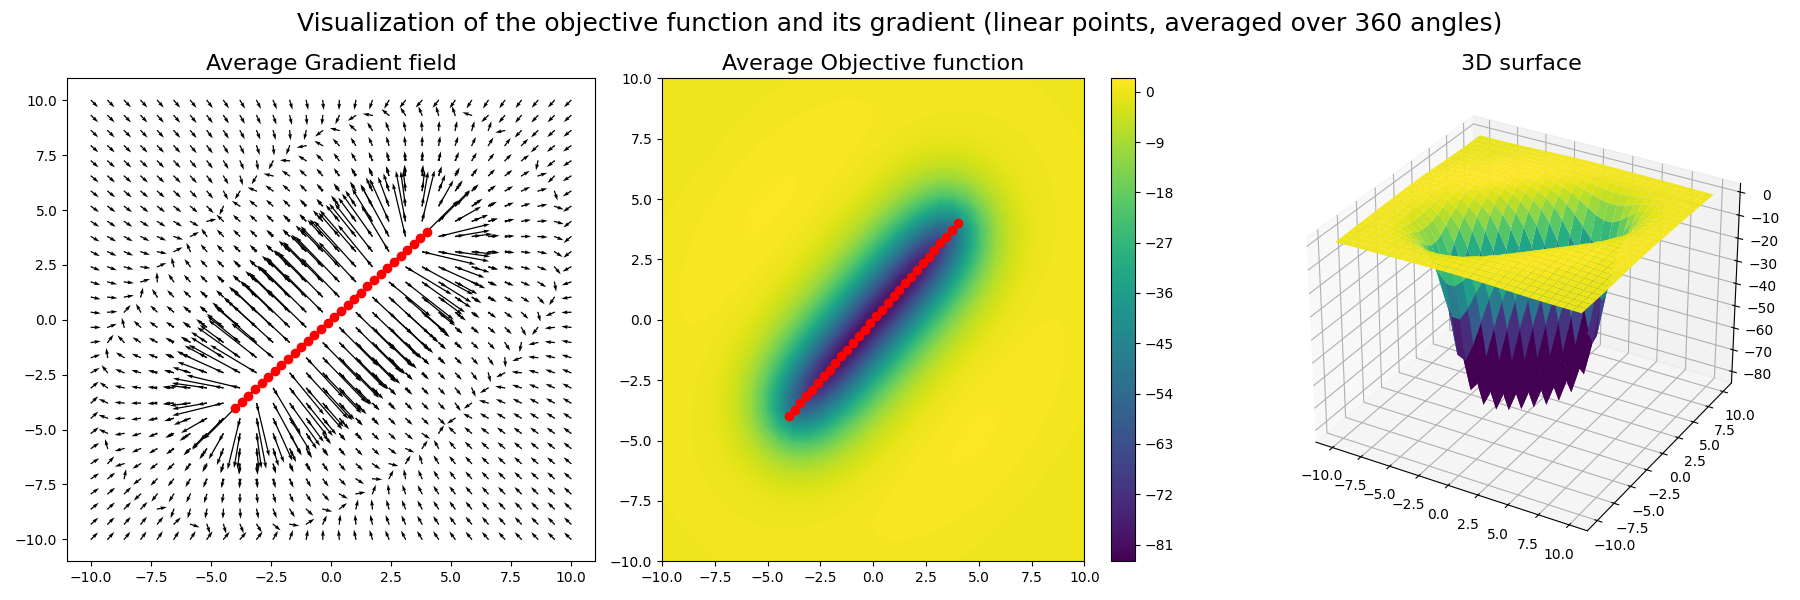
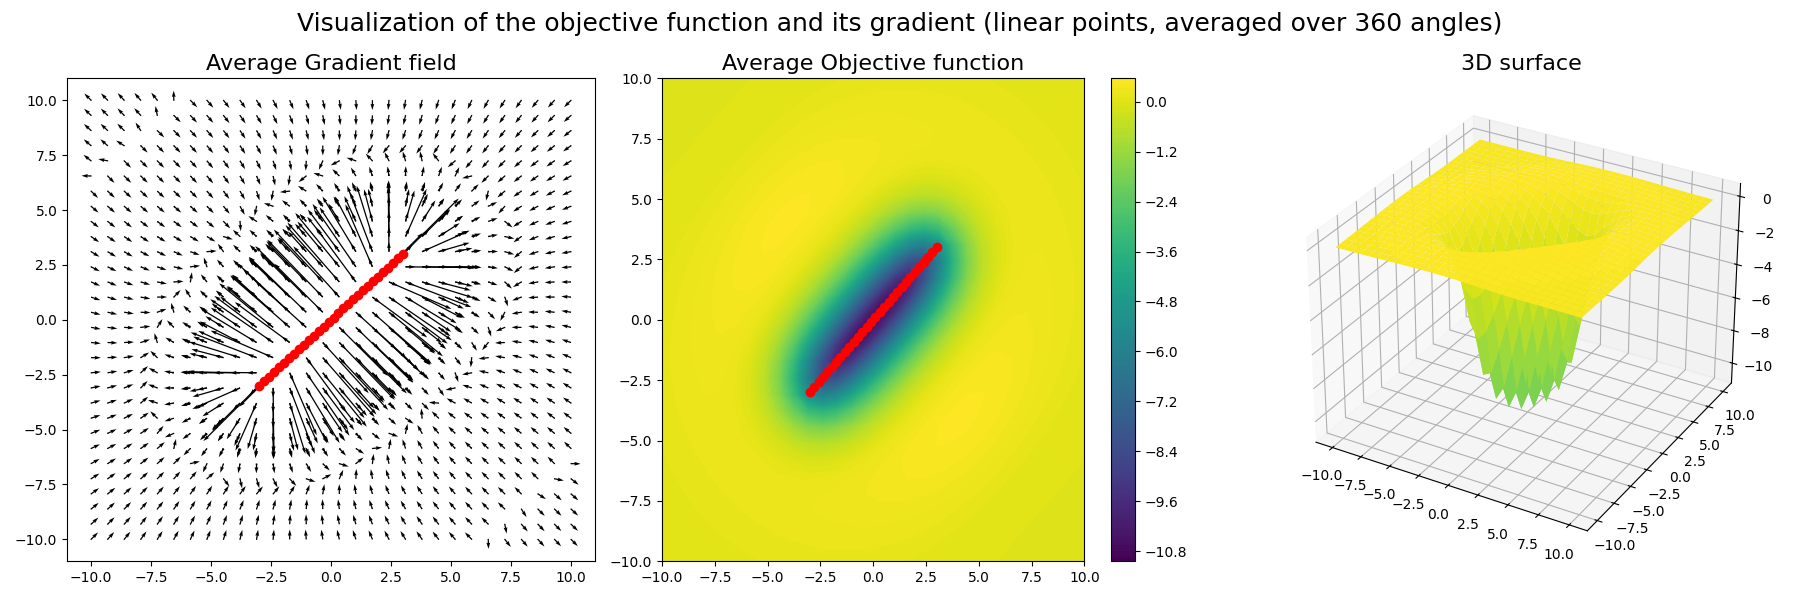
feat: add p1, p2

diff --git a/mat_model.py b/mat_model.py
@@ -7,13 +7,23 @@ np.random.seed(42)
 
 a1 = 10.0
 a2 = 2.0
-k1 = 1.0
-k2 = 2.0
-k3 = 50.0
-k4 = 50.0
 eps = 1
 delta = 1e-3
 n_closest = 1
+
+k_params = [
+    (1.0, 1.0, 1.0, 1.0),
+    (1.0, 2.0, 50.0, 50.0),
+    (1.0, 2.0, 50.0, 50.0),
+    (1.0, 2.0, 50.0, 50.0)
+]
+
+p_params = [
+    (1.0, 2.0),
+    (1.0, 1.0),
+    (1.0, 1.0),
+    (1.0, 1.0)
+]
 
 # Sigmoid function
 def sigmoid(x):
@@ -33,11 +43,11 @@ def compute_projections(x0, y0, phi, pts):
     return u, n
 
 # Capture function by parallel projection
-def g_parallel(u):
+def g_parallel(u, k1):
     return sigmoid(k1 * u) * sigmoid(k1 * (a1 - u))
 
 # Capture function by perpendicular projection
-def g_perp(n):
+def g_perp(n, k2):
     return sigmoid(k2 * (n + a2)) * sigmoid(k2 * (a2 - n))
 
 # Points generation by functions
@@ -47,14 +57,16 @@ def generate_points(func, x_range=(-5, 5), n=100):
     return np.stack([x, y], axis=1)
 
 # Optimize function and plot results
-def optimize_and_plot(ax, points, title):
+def optimize_and_plot(ax, points, title, k_set, p_set):
+    k1, k2, k3, k4 = k_set
+    p1, p2 = p_set
     # Objective function for optimization
     def objective(vars):
         x0, y0, phi = vars
         phi = phi % (2 * np.pi)
 
         u, n = compute_projections(x0, y0, phi, points)
-        capture = g_parallel(u) * g_perp(n)
+        capture = (g_parallel(u, k1)**p1) * (g_perp(n, k2)**p2)
         term1 = np.sum(capture)
 
         dists = np.sqrt((points[:, 0] - x0) ** 2 + (points[:, 1] - y0) ** 2 + delta**2)
@@ -107,7 +119,7 @@ def optimize_and_plot(ax, points, title):
 
     # Compute capture values on the grid
     u, n = compute_projections(x0_opt, y0_opt, phi_opt, grid_points)
-    Z = (g_parallel(u) * g_perp(n)).reshape(X.shape)
+    Z = ((g_parallel(u, k1)**p1) * (g_perp(n, k2)**p2)).reshape(X.shape)
 
     contour = ax.contourf(X, Y, Z, levels=50, alpha=0.3, cmap="viridis")
 
@@ -169,7 +181,7 @@ if __name__ == "__main__":
     last_contour = None
 
     for i, (ax, pts) in enumerate(zip(axes, point_sets)):
-        res, contour = optimize_and_plot(ax, pts, graph_names[i])
+        res, contour = optimize_and_plot(ax, pts, graph_names[i], k_params[i], p_params[i])
         results.append(res)
         last_contour = contour
 

diff --git a/vizualization.py b/vizualization.py
@@ -2,12 +2,16 @@ import numpy as np
 import matplotlib.pyplot as plt
 
 
-points = np.linspace(-4, 4, 30)
-points = np.stack((points, points), axis=1)
+def generate_points(func, x_range=(-3, 3), n=30):
+    x = np.linspace(x_range[0], x_range[1], n)
+    y = func(x)
+    return np.stack((x, y), axis=1)
+
+points = generate_points(lambda x: x)
 
 a1, a2 = 10.0, 2.0
-k1, k2 = 1.0, 2.0
-k3, k4 = 1.0, 10.0
+k1, k2, k3, k4 = 1.0, 1.0, 1.0, 1.0
+p1, p2 = 4.0, 4.0
 eps = 1.0
 delta = 1e-3
 
@@ -43,11 +47,25 @@ def compute(x0, y0, phi):
         g_par_p = k1 * g_par * (B - A)
         g_perp_p = k2 * g_perp * (D - C)
 
-        total += g_par * g_perp
+        g_par_pow = g_par**p1
+        g_perp_pow = g_perp**p2
 
-        grad_x += -cos * g_par_p * g_perp + sin * g_par * g_perp_p
-        grad_y += -sin * g_par_p * g_perp - cos * g_par * g_perp_p
-        grad_phi += n * g_par_p * g_perp - u * g_par * g_perp_p
+        total += g_par_pow * g_perp_pow
+
+        grad_x += (
+            -p1 * cos * g_par_p * (g_par**(p1 - 1)) * g_perp_pow
+            + p2 * sin * g_perp_p * g_par_pow * (g_perp**(p2 - 1))
+        )
+
+        grad_y += (
+            -p1 * sin * g_par_p * (g_par**(p1 - 1)) * g_perp_pow
+            - p2 * cos * g_perp_p * g_par_pow * (g_perp**(p2 - 1))
+        )
+
+        grad_phi += (
+            p1 * n * g_par_p * (g_par**(p1 - 1)) * g_perp_pow
+            - p2 * u * g_perp_p * g_par_pow * (g_perp**(p2 - 1))
+        )
 
         d = np.sqrt(dx**2 + dy**2 + delta**2)
         sp = sigmoid(k3 * (eps - d))
